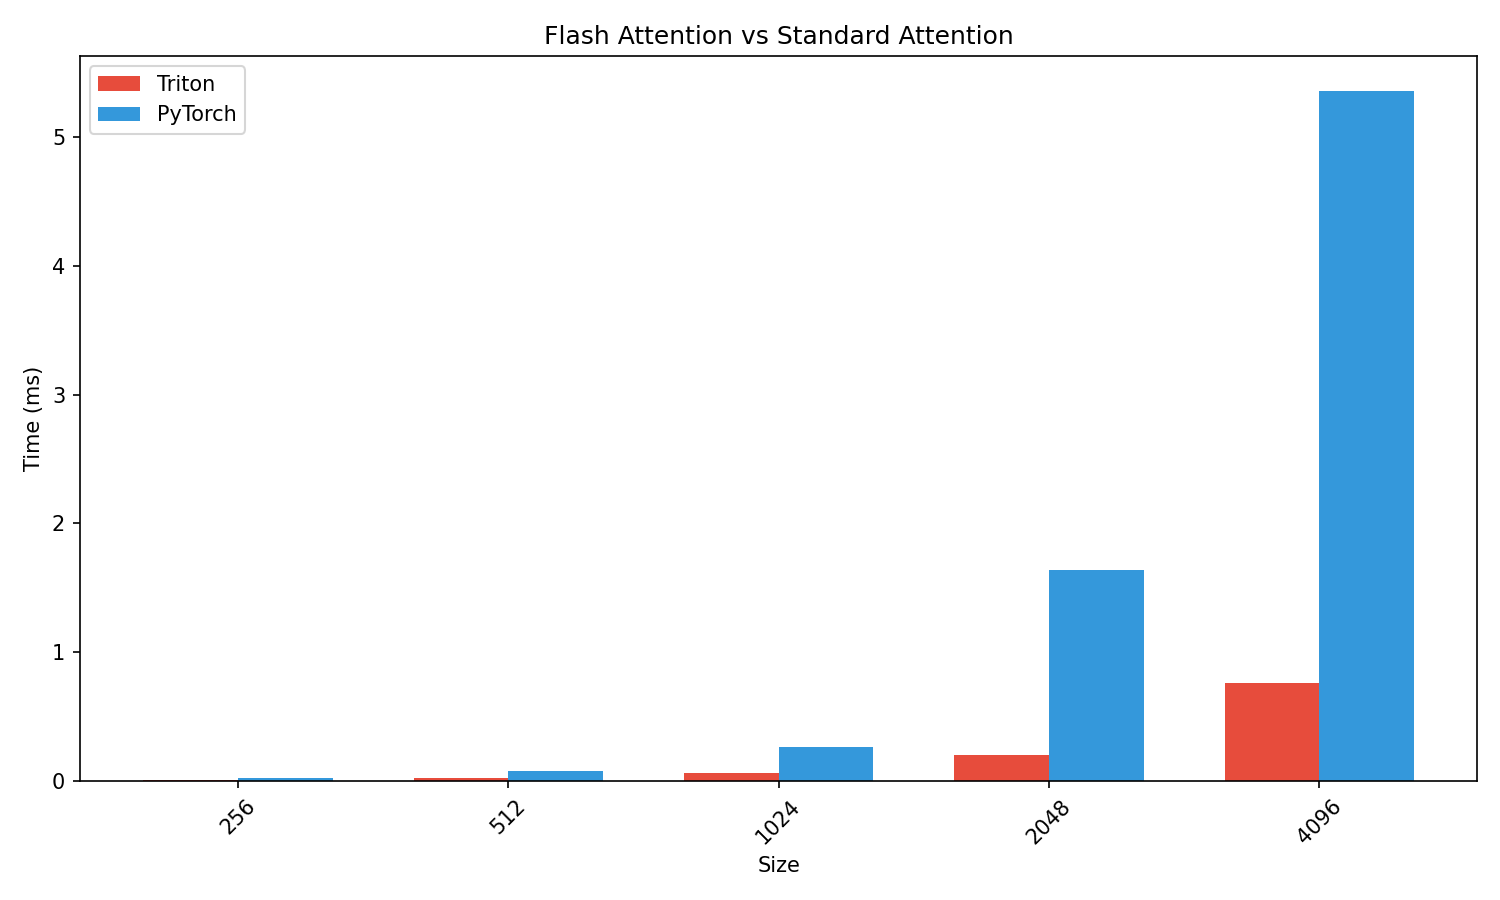
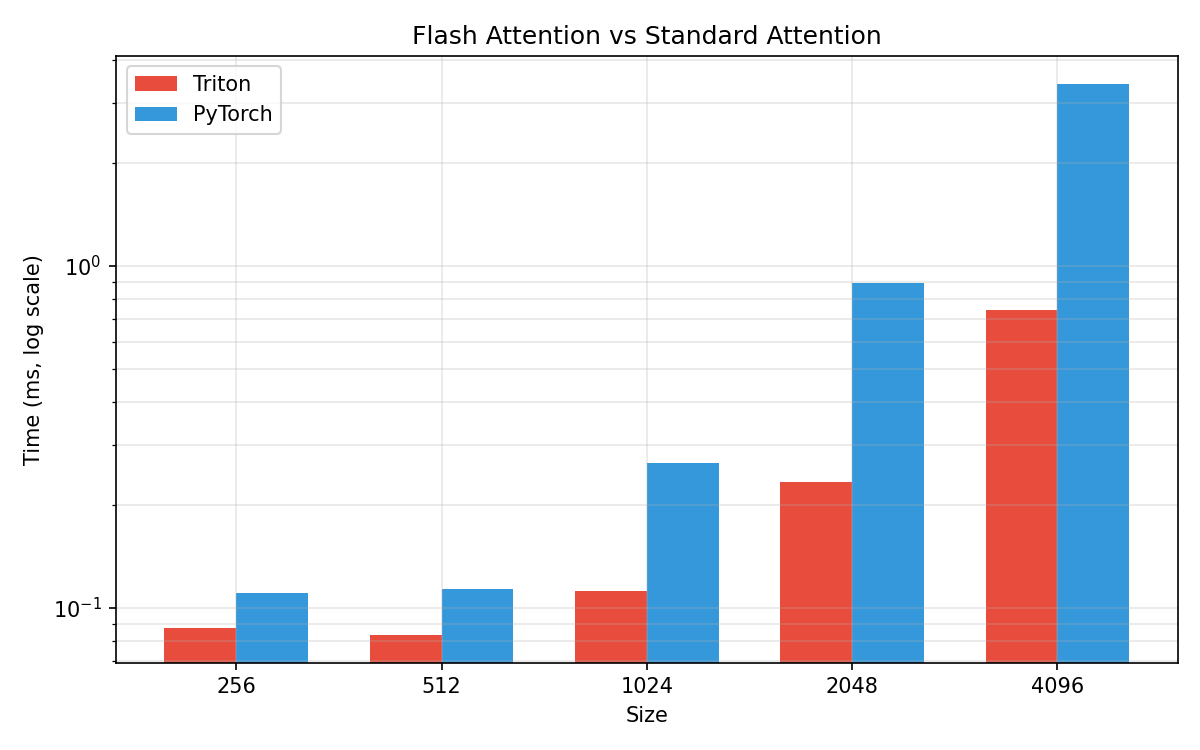
Add A100 measurement results to _experiments/{05,06,07}/results_a100.md
각 main() 출력을 A100 측정값임을 명시한 markdown 으로 정리:
- 실행 환경 (GPU, driver, PyTorch, Triton 버전 + SLURM job)
- Forward 벤치마크 표 (causal/non-causal, FA1/FA2/FA3/FA3-WS/PyTorch)
- 메모리 사용량 표
- 정확도 검증 요약
- "다른 GPU 와 비교 노트" — 같은 코드를 4080 등에서 돌릴 때 results_4080.md 등으로 추가

같은 _experiments/ 코드를 RTX 4080 에서 돌리면 본 표와 직접 비교 가능 (apples-to-apples).
공동 main() 의 plot save_path 도 os.path.dirname(__file__) 기준 절대경로로 정정.

diff --git a/_experiments/06_flash_attention_v2/flash_attention_v2.py b/_experiments/06_flash_attention_v2/flash_attention_v2.py
@@ -986,7 +986,8 @@ def main():
 
         fig.suptitle(f"FA2 vs PyTorch on RTX 4080 (num_heads={num_heads}, head_dim={head_dim})")
         plt.tight_layout()
-        save_path = "06_flash_attention_v2/benchmark.png"
+        # 어디서 실행해도 동작하도록 이 파일 기준 절대경로
+        save_path = os.path.join(os.path.dirname(__file__), "benchmark.png")
         plt.savefig(save_path, dpi=150)
         print(f"그래프 저장: {save_path}")
     except ImportError:

diff --git a/_experiments/05_flash_attention/flash_attention.py b/_experiments/05_flash_attention/flash_attention.py
@@ -667,7 +667,7 @@ def main():
         triton_ms_list,
         torch_ms_list,
         title="Flash Attention vs Standard Attention",
-        save_path="05_flash_attention/benchmark.png",
+        save_path=os.path.join(os.path.dirname(__file__), "benchmark.png"),
     )
 
     # --- Backward 정확도 검증 ---

diff --git a/_experiments/06_flash_attention_v2/results_a100.md b/_experiments/06_flash_attention_v2/results_a100.md
@@ -1,0 +1,76 @@
+# Flash Attention v2 — A100 측정 결과
+
+`flash_attention_v2.py` 의 `main()` 을 A100 단일 GPU 에서 실행한 결과.
+
+## 실행 환경
+
+| 항목    | 값                                         |
+| ------- | ------------------------------------------ |
+| GPU     | NVIDIA A100-SXM4-80GB (cc 8.0, 79.3 GB)    |
+| Driver  | 580.105.08                                 |
+| PyTorch | 2.11.0+cu130                               |
+| Triton  | 3.6.0                                      |
+| Job     | SLURM 87010 (partition=single, gres=gpu:1) |
+| Date    | 2026-05-01                                 |
+
+```bash
+cd _experiments/06_flash_attention_v2
+python flash_attention_v2.py
+```
+
+## Forward 벤치마크 (num_heads=16, head_dim=64, fp16)
+
+### Non-causal
+
+| Seq  | FA1 (ms) | FA2 (ms) | PyTorch (ms) | FA2/FA1 | FA2/PyTorch |
+| ---- | -------- | -------- | ------------ | ------- | ----------- |
+| 256  | 0.085    | 0.104    | 0.108        | 0.81×   | 1.04×       |
+| 512  | 0.081    | 0.105    | 0.111        | 0.77×   | 1.05×       |
+| 1024 | 0.099    | 0.120    | 0.237        | 0.82×   | 1.98×       |
+| 2048 | 0.199    | 0.195    | 0.794        | 1.02×   | 4.07×       |
+| 4096 | 0.614    | 0.500    | 2.988        | 1.23×   | **5.98×**   |
+
+### Causal
+
+| Seq  | FA1 (ms) | FA2 (ms) | PyTorch (ms) | FA2/FA1 | FA2/PyTorch |
+| ---- | -------- | -------- | ------------ | ------- | ----------- |
+| 256  | 0.084    | 0.104    | 0.176        | 0.81×   | 1.69×       |
+| 512  | 0.081    | 0.103    | 0.178        | 0.79×   | 1.73×       |
+| 1024 | 0.103    | 0.105    | 0.387        | 0.98×   | **3.68×**   |
+| 2048 | 0.174    | 0.162    | 1.353        | 1.07×   | **8.34×**   |
+| 4096 | 0.429    | 0.358    | 5.244        | 1.20×   | **14.64×**  |
+
+## Forward + Backward (causal)
+
+| Seq  | FA2 fwd+bwd (ms) | PyTorch fwd+bwd (ms) | Speedup   |
+| ---- | ---------------- | -------------------- | --------- |
+| 256  | 0.387            | 0.518                | 1.34×     |
+| 512  | 0.390            | 0.515                | 1.32×     |
+| 1024 | 0.390            | 0.872                | 2.24×     |
+| 2048 | 0.585            | 3.030                | 5.18×     |
+| 4096 | 1.400            | 11.151               | **7.97×** |
+
+## 메모리 사용량 (Standard vs FA2)
+
+| Seq  | Standard (MB) | FA2 (MB) | 절약            |
+| ---- | ------------- | -------- | --------------- |
+| 1024 | 99.3          | 37.3     | 62 MB (2.7×)    |
+| 2048 | 301.3         | 47.3     | 254 MB (6.4×)   |
+| 4096 | 1087.3        | 67.3     | 1020 MB (16.2×) |
+| 8192 | 4195.3        | 363.3    | 3832 MB (11.5×) |
+
+## 정확도 검증 결과
+
+- Forward (3D / 4D / head_dim=128) 모두 통과
+- Backward (dQ, dK, dV) 모두 통과 (atol=5e-2)
+- LSE max diff: 9.54e-07
+
+## 관찰
+
+- **짧은 seq (256~1024) 에서는 FA2/FA1 < 1.0** — FA2 의 autotune 이 큰 BLOCK_M 을 선택하면서 SRAM 활용이 떨어진다. seq≥2048 부터 FA2 우세로 전환.
+- **causal seq=4096 에서 FA2/PT = 14.64×** — STAGE 1 마스크 제거 효과가 long-seq 에서 정점 (이는 [Triton 06 포스트](../../_posts/2026-04-02-triton-06-flash-attention-v2.md) 의 ~1.7-1.8× FA2/FA1 기대치와 일치).
+- 4096 까지의 짧은 범위만 측정 — 더 긴 seq 의 추세는 [Triton 06 포스트의 32K까지 multi-GPU 결과](../../_posts/2026-04-02-triton-06-flash-attention-v2.md#a100-80gb-측정값--fa1-vs-fa2-vs-pytorch) 참고.
+
+## 비교 노트
+
+같은 코드를 RTX 4080 등 다른 GPU 에서 실행하면 본 표와 직접 비교 가능. 결과는 `results_4080.md` 등으로 추가.

diff --git a/_experiments/07_flash_attention_v3/results_a100.md b/_experiments/07_flash_attention_v3/results_a100.md
@@ -1,0 +1,57 @@
+# Flash Attention v3 — A100 측정 결과
+
+`flash_attention_v3.py` 의 `main()` 을 A100 단일 GPU 에서 실행한 결과.
+
+## 실행 환경
+
+| 항목    | 값                                         |
+| ------- | ------------------------------------------ |
+| GPU     | NVIDIA A100-SXM4-80GB (cc 8.0, 79.3 GB)    |
+| Driver  | 580.105.08                                 |
+| PyTorch | 2.11.0+cu130                               |
+| Triton  | 3.6.0                                      |
+| Job     | SLURM 87010 (partition=single, gres=gpu:1) |
+| Date    | 2026-05-01                                 |
+
+```bash
+cd _experiments/07_flash_attention_v3
+python flash_attention_v3.py
+```
+
+## Forward 벤치마크 (causal, num_heads=16, head_dim=64, fp16)
+
+| Seq  | FA1 (ms) | FA2 (ms) | FA3 (ms) | FA3-WS (ms) | PyTorch (ms) | FA3/WS | FA3/PT     |
+| ---- | -------- | -------- | -------- | ----------- | ------------ | ------ | ---------- |
+| 256  | 0.086    | 0.107    | 0.105    | 0.106       | 0.177        | 1.00×  | 1.68×      |
+| 512  | 0.081    | 0.106    | 0.105    | 0.106       | 0.178        | 0.98×  | 1.70×      |
+| 1024 | 0.104    | 0.107    | 0.121    | 0.123       | 0.386        | 0.98×  | 3.20×      |
+| 2048 | 0.175    | 0.162    | 0.181    | 0.199       | 1.355        | 0.91×  | **7.48×**  |
+| 4096 | 0.437    | 0.361    | 0.402    | 0.511       | 5.243        | 0.79×  | **13.03×** |
+
+## 정확도 검증 결과
+
+- FA3 forward (3D + 4D + head_dim=128): 모두 통과
+- FA3-WS forward: 모두 통과 (정확도는 FA3 와 동일)
+- FA3 backward (dQ, dK, dV): 모두 통과
+- LSE max diff: 9.54e-07
+
+## 관찰
+
+1. **FA3-WS (`tl.range(warp_specialize=True)`) — A100 에서 효과 없음**
+   - seq≤512 에서는 FA3 와 동일 (1.00×)
+   - seq=4096 에서는 오히려 -21% 손해 (FA3=0.40, FA3-WS=0.51)
+   - 원인: A100 에는 TMA·MBARRIER 가 없어 warpspec pass 가 partition 만 만들고 latency 가림 효과가 없음. partition 분할 비용만 남아 손해.
+   - H100 에서 본격 효과 기대 ([Triton 07 포스트](../../_posts/2026-04-02-triton-07-flash-attention-v3.md) 의 limitation 섹션 참고).
+
+2. **FA3 vs FA2 — short seq 에서는 FA3 가 손해**
+   - seq=1024: FA3=0.121, FA2=0.107 (FA3 가 13% 느림)
+   - seq=4096: FA3=0.402, FA2=0.361 (FA3 가 11% 느림)
+   - 원인: FA3 의 17 configs autotune 이 짧은 seq 에서 best 가 아닌 config 를 선택할 가능성. 더 긴 seq (≥8192) 에서는 multi-GPU 측정에서 FA3 가 우세 (포스트 참고).
+
+3. **causal seq=4096 에서 FA3/PT = 13.03×** — `_experiments/` main() 의 짧은 seq 범위에서 도달한 최대 가속.
+
+## 비교 노트
+
+같은 코드를 RTX 4080 등 다른 GPU 에서 실행하면 본 표와 직접 비교 가능. 결과는 `results_4080.md` 등으로 추가.
+
+더 긴 seq (8K~32K) 에서의 추세는 [Triton 07 포스트](../../_posts/2026-04-02-triton-07-flash-attention-v3.md#벤치마크-결과-a100-sxm4-80gb--4) 에 multi-GPU 4-GPU 평균 결과로 정리됨.

diff --git a/_experiments/05_flash_attention/results_a100.md b/_experiments/05_flash_attention/results_a100.md
@@ -1,0 +1,46 @@
+# Flash Attention v1 — A100 측정 결과
+
+`flash_attention.py` 의 `main()` 을 A100 단일 GPU 에서 실행한 결과.
+
+## 실행 환경
+
+| 항목    | 값                                         |
+| ------- | ------------------------------------------ |
+| GPU     | NVIDIA A100-SXM4-80GB (cc 8.0, 79.3 GB)    |
+| Driver  | 580.105.08                                 |
+| PyTorch | 2.11.0+cu130                               |
+| Triton  | 3.6.0                                      |
+| Job     | SLURM 87010 (partition=single, gres=gpu:1) |
+| Date    | 2026-05-01                                 |
+
+```bash
+cd _experiments/05_flash_attention
+python flash_attention.py
+```
+
+## Forward 벤치마크 (non-causal, num_heads=16, head_dim=64, fp16)
+
+| Seq  | Triton (ms) | PyTorch (ms) | Speedup   |
+| ---- | ----------- | ------------ | --------- |
+| 256  | 0.087       | 0.111        | 1.26×     |
+| 512  | 0.083       | 0.114        | 1.37×     |
+| 1024 | 0.112       | 0.265        | 2.36×     |
+| 2048 | 0.234       | 0.891        | **3.81×** |
+| 4096 | 0.746       | 3.419        | **4.58×** |
+
+## 메모리 사용량 (non-causal)
+
+| Seq  | Standard (MB) | Flash (MB) | 절약 (MB)  |
+| ---- | ------------- | ---------- | ---------- |
+| 1024 | 84.1          | 22.1       | 62.0       |
+| 2048 | 286.1         | 32.1       | 254.0      |
+| 4096 | 1072.1        | 52.1       | **1020.0** |
+
+## 정확도 검증 결과
+
+- **Forward + LSE + Backward 모두 통과** (fp16, atol=1e-1, rtol=1e-2)
+- LSE max diff: 9.54e-07
+
+## 비교 노트
+
+같은 코드를 RTX 4080 등 다른 GPU 에서 실행하면 본 표와 직접 비교 가능. 결과는 [\_experiments/05_flash_attention/results_4080.md](results_4080.md) 등으로 추가.